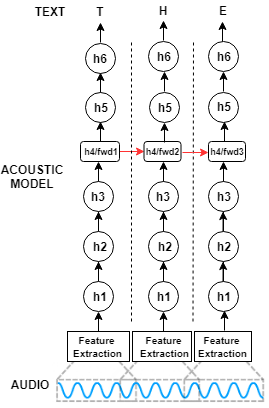
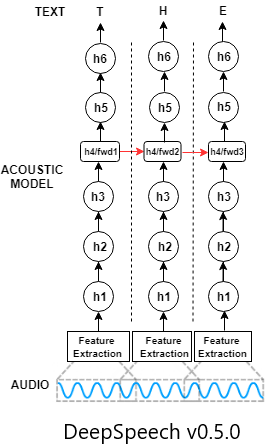
Updated ReadMe

diff --git a/README.md b/README.md
@@ -4,9 +4,11 @@ _This is the project for the paper [German End-to-end Speech Recognition based o
 
 This project aims to develop a working Speech to Text module using [Mozilla DeepSpeech](https://github.com/mozilla/DeepSpeech), which can be used for any Audio processing pipeline. [Mozillla DeepSpeech](https://github.com/mozilla/DeepSpeech) is a state-of-the-art open-source automatic speech recognition (ASR) toolkit. DeepSpeech is using a model trained by machine learning techniques based on [Baidu's Deep Speech](https://gigaom2.files.wordpress.com/2014/12/deep_speech3_12_17.pdf) research paper. Project DeepSpeech uses Google's TensorFlow to make the implementation easier.
 
-| ![media/deep-speech-v3.png](media/deep-speech-v3.png) | 
-|:--:| 
-| *DeepSpeech v0.5.0* |
+<p align="center">
+	<img src="media/deep-speech-v3.png" align="center" title="DeepSpeech v0.5.0" />
+</p>
+
+
 
 ## Important Links:
 
